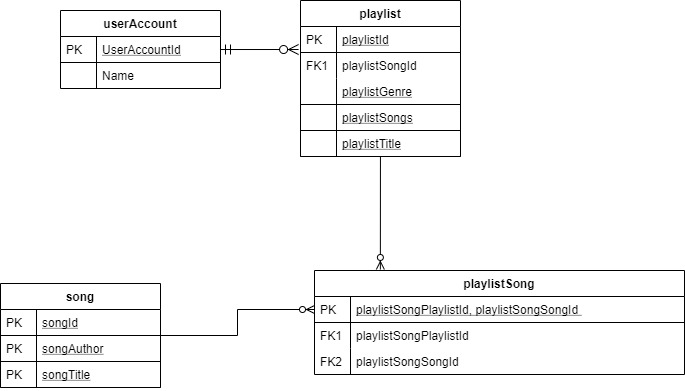
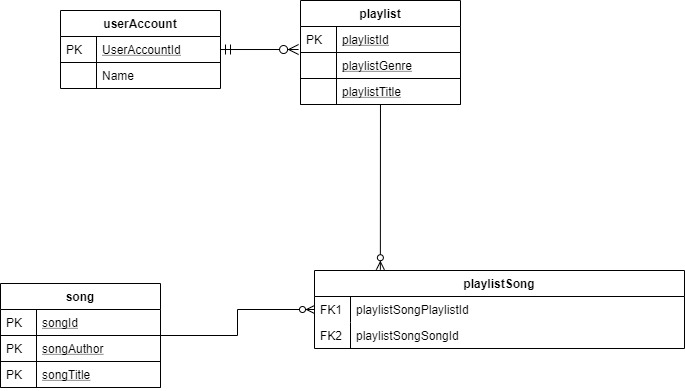
edited ERD

diff --git a/index.php b/index.php
@@ -6,10 +6,9 @@
 	<a href="epic/persona.php">Persona</a>
 	<a href="epic/user-story.php">User Story</a>
 	<a href="epic/use-case-interaction-flow.php">Use Interaction Flow</a>
-	<a href="epic/edr.php">Conceptual Model and <EDR</a>
+	<a href="epic/edr.php">Conceptual Model and EDR</a>
 </head>
 <body>
 <p>This page includes the persona, user story and user interaction flow of a spotify user called Nah Blessings</p>
-	<p></p>
 </body>
 </html>

diff --git a/epic/edr.php b/epic/edr.php
@@ -14,7 +14,6 @@
 	<h2>Playlist</h2>
 		<li>playlistId (primary key)</li>
 		<li>playlistGenre</li>
-		<li>playlistSongs (foreign key)</li>
 		<li>playlistTitle</li>
 
 	<h2>Song</h2>
